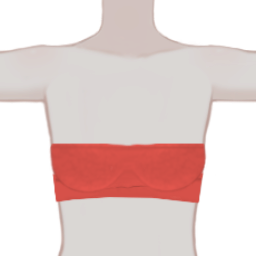
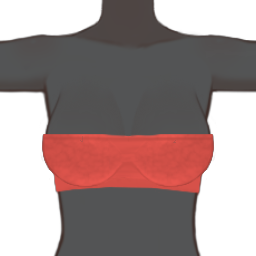
[ADD] new classic corset

diff --git a/src/assets/bras/classic_corset/classic_corset.asset.ts b/src/assets/bras/classic_corset/classic_corset.asset.ts
@@ -1,0 +1,59 @@
+DefineAsset({
+	name: 'Classic Corset',
+	size: 'medium',
+	requireFreeHandsToUseDefault: true,
+	allowRandomizerUsage: true,
+	graphics: 'graphics.json',
+	colorization: {
+		corset: {
+			name: 'Corset',
+			default: '#3E56AF',
+		},
+		buckles: {
+			name: 'Buckles',
+			default: '#919191',
+		},
+	},
+	// size:300, y:459, centered
+	preview: 'preview.png',
+	attributes: {
+		provides: [
+			'Clothing',
+			'Restraint',
+			'Restraint_torso',
+			'Underwear',
+			'Underwear_corset',
+		],
+	},
+	modules: {
+		lock: {
+			type: 'lockSlot',
+			name: 'Lock',
+			lockedProperties: {
+				blockAddRemove: true,
+			},
+		},
+	},
+	ownership: {
+		responsibleContributor: 'ClaudiaMia <99583892+ClaudiaMia@users.noreply.github.com>',
+		credits: ['ClaudiaMia'],
+		modificationPolicy: `Fixes and New uses, otherwise ask`,
+		reusePolicy: 'Ask first',
+		licensing: [
+			{
+				part: 'images',
+				source: 'Self-Made',
+				copyrightHolder: 'ClaudiaMia',
+				editedBy: 'ClaudiaMia',
+				license: 'Pandora-Use-Only-v1-or-later',
+			},
+			{
+				part: 'used 3D model',
+				source: 'https://skfb.ly/6TWpR',
+				copyrightHolder: 'MarbleBallStudio',
+				editedBy: 'ClaudiaMia',
+				license: 'CC BY',
+			},
+		],
+	},
+});
